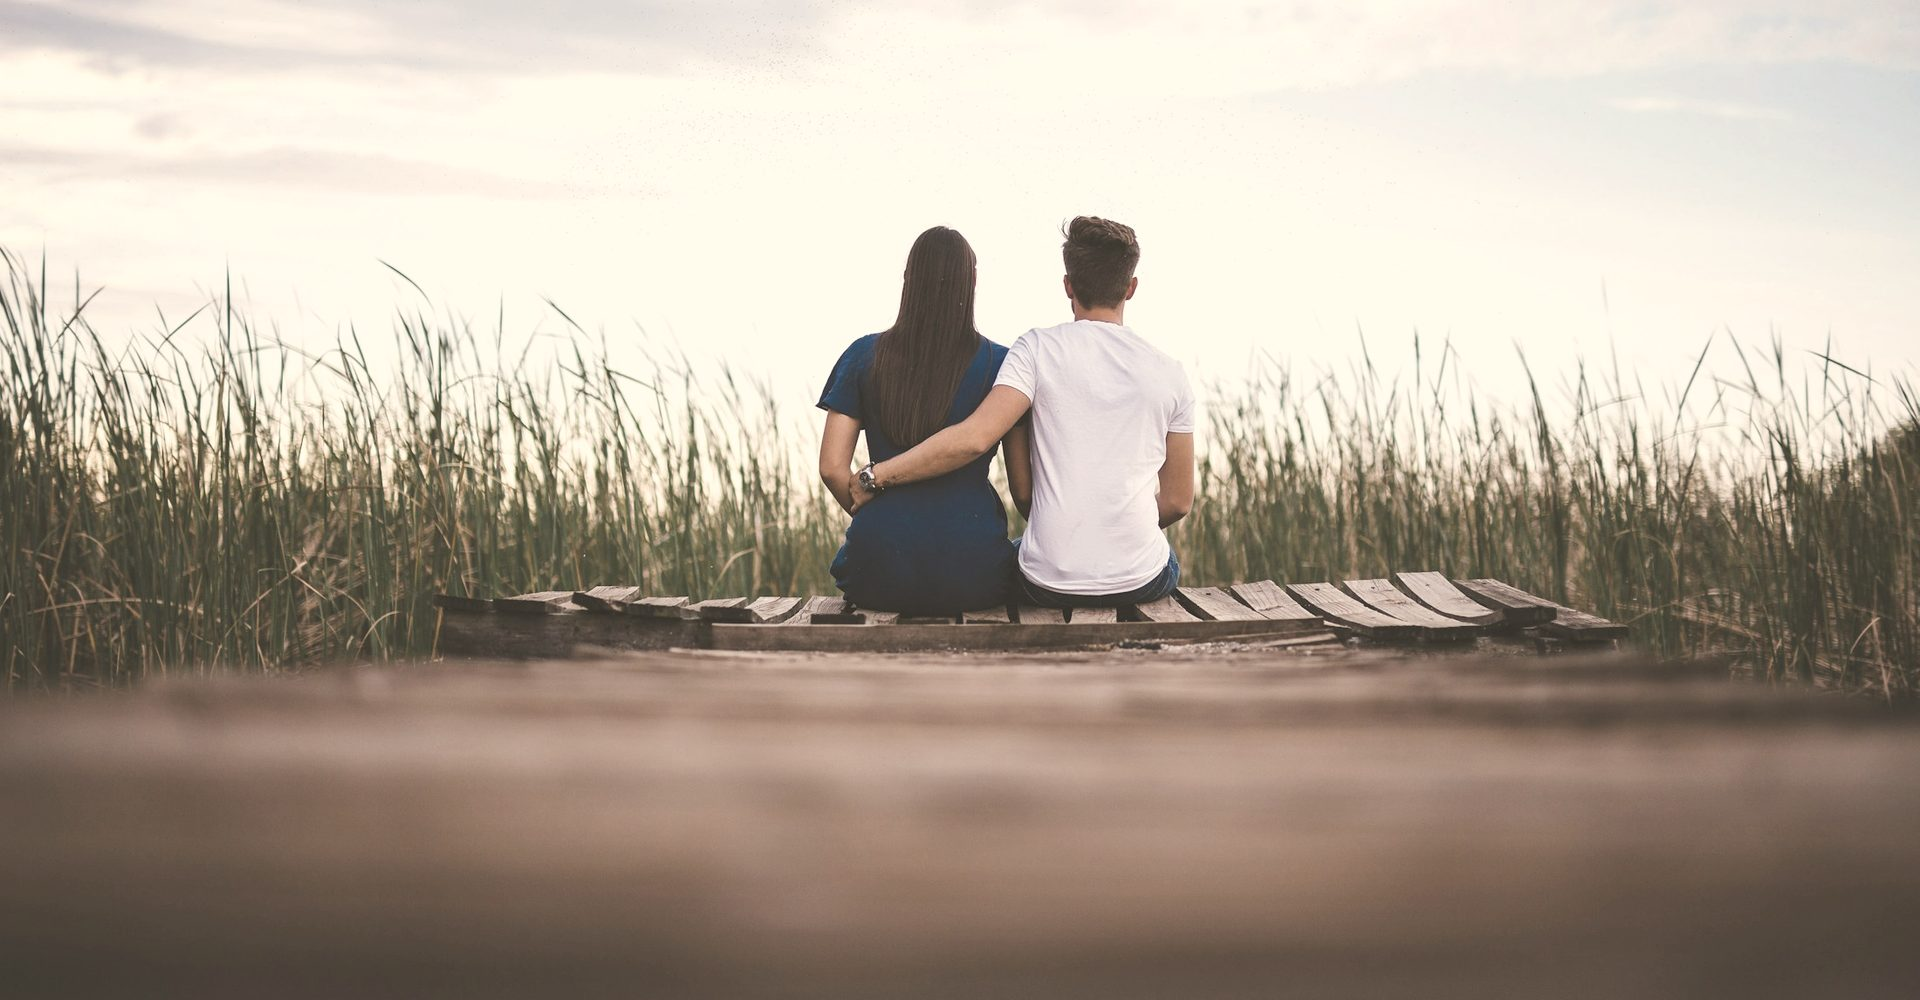
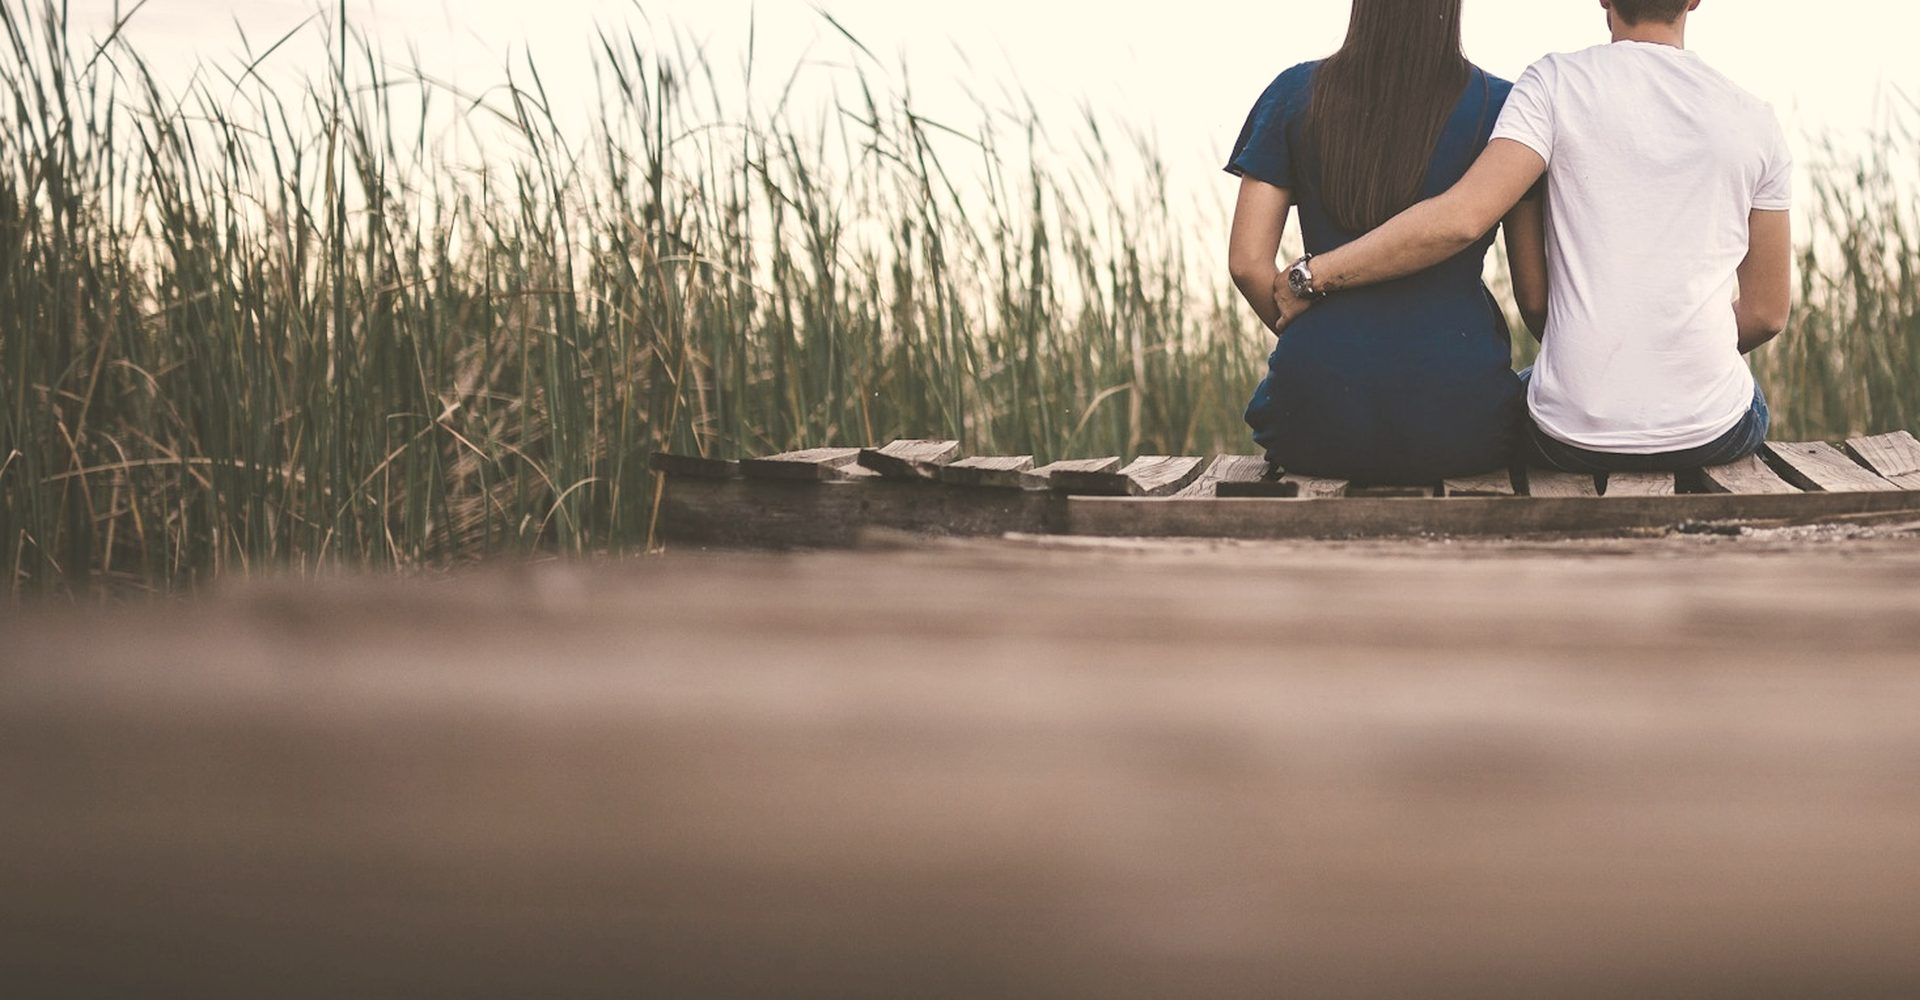
Par bas desno u Samadhi heru (v=80)

diff --git a/style.css b/style.css
@@ -474,7 +474,7 @@ ul.ls.cols2{display:grid;grid-template-columns:1fr 1fr;gap:12px 34px;margin-bott
 .checklist li{position:relative;padding-left:32px;font-size:15px;line-height:1.6;}
 .checklist li svg{position:absolute;left:0;top:3px;width:18px;height:18px;stroke:#a97e58;fill:none;stroke-width:1.8;stroke-linecap:round;stroke-linejoin:round;}
 @media (max-width:900px){.check2{grid-template-columns:1fr;gap:28px;}}
-.hero.hero-more.hero-sam{background-image:url('img/hero-samadhi.jpg?2');background-size:auto 145%;background-position:0 30%;}
+.hero.hero-more.hero-sam{background-image:url('img/hero-samadhi.jpg?3');background-position:right 35%;}
 .fw .article{max-width:1140px;}
 .hero.hero-more.hero-sp{background-image:url('img/hero-sp.jpg?2');background-position:right 40%;}
 @media (max-width:700px){

diff --git a/blog.html b/blog.html
@@ -7,7 +7,7 @@
 <link rel="preconnect" href="https://fonts.googleapis.com">
 <link rel="preconnect" href="https://fonts.gstatic.com" crossorigin>
 <link href="https://fonts.googleapis.com/css2?family=Lora:ital,wght@0,400;0,500;0,600;0,700;1,400&family=Open+Sans:wght@300;400;500;600;700&display=swap" rel="stylesheet">
-<link rel="stylesheet" href="style.css?v=79">
+<link rel="stylesheet" href="style.css?v=80">
 </head>
 <body class="fw">
 

diff --git a/faq.html b/faq.html
@@ -7,7 +7,7 @@
 <link rel="preconnect" href="https://fonts.googleapis.com">
 <link rel="preconnect" href="https://fonts.gstatic.com" crossorigin>
 <link href="https://fonts.googleapis.com/css2?family=Lora:ital,wght@0,400;0,500;0,600;0,700;1,400&family=Open+Sans:wght@300;400;500;600;700&display=swap" rel="stylesheet">
-<link rel="stylesheet" href="style.css?v=79">
+<link rel="stylesheet" href="style.css?v=80">
 </head>
 <body class="fw">
 

diff --git a/index.html b/index.html
@@ -7,7 +7,7 @@
 <link rel="preconnect" href="https://fonts.googleapis.com">
 <link rel="preconnect" href="https://fonts.gstatic.com" crossorigin>
 <link href="https://fonts.googleapis.com/css2?family=Lora:ital,wght@0,400;0,500;0,600;0,700;1,400&family=Open+Sans:wght@300;400;500;600;700&display=swap" rel="stylesheet">
-<link rel="stylesheet" href="style.css?v=79">
+<link rel="stylesheet" href="style.css?v=80">
 </head>
 <body class="fw">
 

diff --git a/kolacici.html b/kolacici.html
@@ -7,7 +7,7 @@
 <link rel="preconnect" href="https://fonts.googleapis.com">
 <link rel="preconnect" href="https://fonts.gstatic.com" crossorigin>
 <link href="https://fonts.googleapis.com/css2?family=Lora:ital,wght@0,400;0,500;0,600;0,700;1,400&family=Open+Sans:wght@300;400;500;600;700&display=swap" rel="stylesheet">
-<link rel="stylesheet" href="style.css?v=79">
+<link rel="stylesheet" href="style.css?v=80">
 </head>
 <body class="fw">
 

diff --git a/konstelacije.html b/konstelacije.html
@@ -7,7 +7,7 @@
 <link rel="preconnect" href="https://fonts.googleapis.com">
 <link rel="preconnect" href="https://fonts.gstatic.com" crossorigin>
 <link href="https://fonts.googleapis.com/css2?family=Lora:ital,wght@0,400;0,500;0,600;0,700;1,400&family=Open+Sans:wght@300;400;500;600;700&display=swap" rel="stylesheet">
-<link rel="stylesheet" href="style.css?v=79">
+<link rel="stylesheet" href="style.css?v=80">
 </head>
 <body class="fw">
 

diff --git a/kontakt.html b/kontakt.html
@@ -7,7 +7,7 @@
 <link rel="preconnect" href="https://fonts.googleapis.com">
 <link rel="preconnect" href="https://fonts.gstatic.com" crossorigin>
 <link href="https://fonts.googleapis.com/css2?family=Lora:ital,wght@0,400;0,500;0,600;0,700;1,400&family=Open+Sans:wght@300;400;500;600;700&display=swap" rel="stylesheet">
-<link rel="stylesheet" href="style.css?v=79">
+<link rel="stylesheet" href="style.css?v=80">
 </head>
 <body class="fw">
 

diff --git a/omeni.html b/omeni.html
@@ -7,7 +7,7 @@
 <link rel="preconnect" href="https://fonts.googleapis.com">
 <link rel="preconnect" href="https://fonts.gstatic.com" crossorigin>
 <link href="https://fonts.googleapis.com/css2?family=Lora:ital,wght@0,400;0,500;0,600;0,700;1,400&family=Open+Sans:wght@300;400;500;600;700&display=swap" rel="stylesheet">
-<link rel="stylesheet" href="style.css?v=79">
+<link rel="stylesheet" href="style.css?v=80">
 </head>
 <body class="fw">
 

diff --git a/portal.html b/portal.html
@@ -7,7 +7,7 @@
 <link rel="preconnect" href="https://fonts.googleapis.com">
 <link rel="preconnect" href="https://fonts.gstatic.com" crossorigin>
 <link href="https://fonts.googleapis.com/css2?family=Lora:ital,wght@0,400;0,500;0,600;0,700;1,400&family=Open+Sans:wght@300;400;500;600;700&display=swap" rel="stylesheet">
-<link rel="stylesheet" href="style.css?v=79">
+<link rel="stylesheet" href="style.css?v=80">
 </head>
 <body class="fw">
 

diff --git a/post.html b/post.html
@@ -7,7 +7,7 @@
 <link rel="preconnect" href="https://fonts.googleapis.com">
 <link rel="preconnect" href="https://fonts.gstatic.com" crossorigin>
 <link href="https://fonts.googleapis.com/css2?family=Lora:ital,wght@0,400;0,500;0,600;0,700;1,400&family=Open+Sans:wght@300;400;500;600;700&display=swap" rel="stylesheet">
-<link rel="stylesheet" href="style.css?v=79">
+<link rel="stylesheet" href="style.css?v=80">
 </head>
 <body class="fw">
 

diff --git a/privatnost.html b/privatnost.html
@@ -7,7 +7,7 @@
 <link rel="preconnect" href="https://fonts.googleapis.com">
 <link rel="preconnect" href="https://fonts.gstatic.com" crossorigin>
 <link href="https://fonts.googleapis.com/css2?family=Lora:ital,wght@0,400;0,500;0,600;0,700;1,400&family=Open+Sans:wght@300;400;500;600;700&display=swap" rel="stylesheet">
-<link rel="stylesheet" href="style.css?v=79">
+<link rel="stylesheet" href="style.css?v=80">
 </head>
 <body class="fw">
 

diff --git a/programi.html b/programi.html
@@ -7,7 +7,7 @@
 <link rel="preconnect" href="https://fonts.googleapis.com">
 <link rel="preconnect" href="https://fonts.gstatic.com" crossorigin>
 <link href="https://fonts.googleapis.com/css2?family=Lora:ital,wght@0,400;0,500;0,600;0,700;1,400&family=Open+Sans:wght@300;400;500;600;700&display=swap" rel="stylesheet">
-<link rel="stylesheet" href="style.css?v=79">
+<link rel="stylesheet" href="style.css?v=80">
 </head>
 <body class="fw">
 
